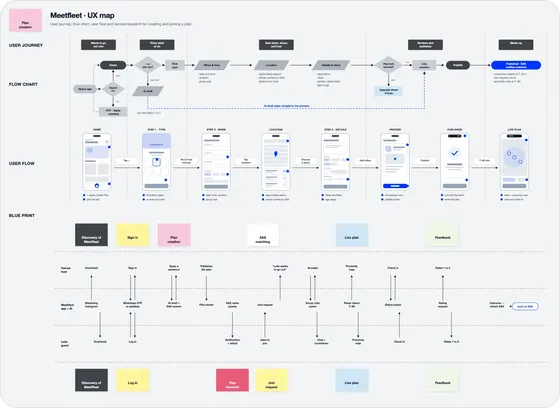
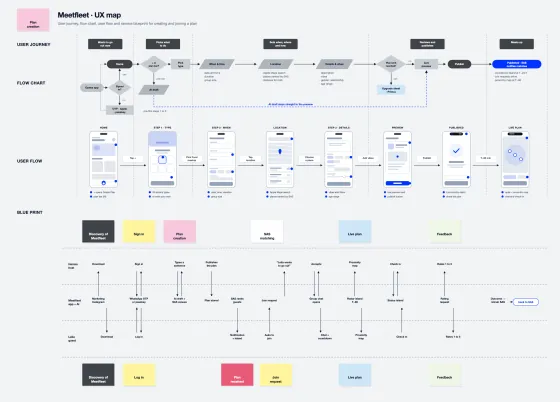
Chapter II: sharp UX map at full resolution, behind the glass lens

diff --git a/meetfleet/index.html b/meetfleet/index.html
@@ -97,7 +97,7 @@
             <a class="post__link" href="../blog/advanced.html" tabindex="-1" aria-hidden="true">
               <img class="post__img" src="../assets/work-2.webp" width="1088" height="923" loading="lazy" decoding="async" alt="People in white T-shirts looking at their phones" data-i18n-attr="alt:work.post1.alt" />
               <span class="post__panel"><svg class="post__mark" viewBox="0 0 48 48" width="28" height="28" aria-hidden="true"><path fill="currentColor" d="M45.0443 29.572C41.7112 38.1868 33.5477 44.282 23.9992 44.2821C14.451 44.2819 6.28873 38.1865 2.95563 29.572L7.73895 27.6014C10.3173 34.2658 16.6291 38.9682 23.9992 38.9684C31.3694 38.9684 37.6825 34.266 40.261 27.6014L45.0443 29.572ZM23.9992 3.71802C33.6452 3.7181 41.4659 11.557 41.4662 21.2272C41.4662 23.4749 41.0427 25.624 40.273 27.5984L35.1417 25.5887C33.398 30.0612 29.0586 33.2148 23.9992 33.2149C18.9401 33.2146 14.6019 30.061 12.8582 25.5887L7.7269 27.5984C6.95724 25.624 6.5337 23.4749 6.5337 21.2272C6.534 11.5571 14.3534 3.71836 23.9992 3.71802Z"/></svg><span class="post__index"><span data-i18n="work.chapter">Chapter</span> 02</span></span>
-            <span class="peek" aria-hidden="true"><span class="peek__toc"><span class="peek__k"><span data-i18n="mf.peek.inside">Inside</span> · 8 <span data-i18n="mf.peek.sections">sections</span></span><ol><li>Designing the journey</li><li>Home screen</li><li>Plans creation craft</li><li>Plans feed</li><li>Plan Insights</li><li>Subscriptions</li><li>The Level Regime</li><li class="peek__more">+ 1</li></ol></span><span class="peek__strip"><span class="peek__roll"><img data-src="../assets/peek/a-journey.webp" alt="" decoding="async" /><img data-src="../assets/peek/a-home.webp" alt="" decoding="async" /><img data-src="../assets/peek/a-feed.webp" alt="" decoding="async" /><img data-src="../assets/peek/a-tiers.webp" alt="" decoding="async" /><img data-src="../assets/peek/a-levels.webp" alt="" decoding="async" /><img data-src="../assets/peek/a-badges.webp" alt="" decoding="async" /><img data-src="../assets/peek/a-journey.webp" alt="" decoding="async" /><img data-src="../assets/peek/a-home.webp" alt="" decoding="async" /><img data-src="../assets/peek/a-feed.webp" alt="" decoding="async" /><img data-src="../assets/peek/a-tiers.webp" alt="" decoding="async" /><img data-src="../assets/peek/a-levels.webp" alt="" decoding="async" /><img data-src="../assets/peek/a-badges.webp" alt="" decoding="async" /></span></span></span>
+            <span class="peek" aria-hidden="true"><span class="peek__toc"><span class="peek__k"><span data-i18n="mf.peek.inside">Inside</span> · 8 <span data-i18n="mf.peek.sections">sections</span></span><ol><li>Designing the journey</li><li>Home screen</li><li>Plans creation craft</li><li>Plans feed</li><li>Plan Insights</li><li>Subscriptions</li><li>The Level Regime</li><li class="peek__more">+ 1</li></ol></span><span class="peek__strip"><span class="peek__roll"><img data-src="../assets/peek/a-journey.webp?v=2" alt="" decoding="async" /><img data-src="../assets/peek/a-home.webp" alt="" decoding="async" /><img data-src="../assets/peek/a-feed.webp" alt="" decoding="async" /><img data-src="../assets/peek/a-tiers.webp" alt="" decoding="async" /><img data-src="../assets/peek/a-levels.webp" alt="" decoding="async" /><img data-src="../assets/peek/a-badges.webp" alt="" decoding="async" /><img data-src="../assets/peek/a-journey.webp?v=2" alt="" decoding="async" /><img data-src="../assets/peek/a-home.webp" alt="" decoding="async" /><img data-src="../assets/peek/a-feed.webp" alt="" decoding="async" /><img data-src="../assets/peek/a-tiers.webp" alt="" decoding="async" /><img data-src="../assets/peek/a-levels.webp" alt="" decoding="async" /><img data-src="../assets/peek/a-badges.webp" alt="" decoding="async" /></span></span></span>
             </a>
             <div class="post__body">
               <p class="post__ch"><span data-i18n="work.chapter">Chapter</span> <b>02</b></p>

diff --git a/blog/advanced.html b/blog/advanced.html
@@ -42,7 +42,7 @@
   <link rel="icon" href="../assets/icon.svg" type="image/svg+xml" />
   <link rel="preload" href="../fonts/AllianceNo2-Regular.woff2" as="font" type="font/woff2" crossorigin />
   <link rel="preload" href="../assets/blog/advanced-hero.webp" as="image" fetchpriority="high" />
-  <link rel="stylesheet" href="blog.css?v=202610132334" />
+  <link rel="stylesheet" href="blog.css?v=20261016" />
   <!-- instant navigation: pages you are about to open are pre-rendered on hover (Chromium) -->
   <script type="speculationrules">{"prerender":[{"source":"document","where":{"and":[{"href_matches":"/*"},{"not":{"href_matches":"/assets/*"}},{"not":{"selector_matches":"[target=_blank], [href^='mailto:'], [href^='tel:']"}}]},"eagerness":"moderate"}]}</script>
 </head>
@@ -103,8 +103,8 @@
             <h2>Designing the journey: from “I’m bored” to “see you there”</h2>
             <p class="lead">Most social apps map a journey that ends on a screen. Ours ends in the real world.</p>
             <p>We traced every step from the moment someone wants to go out to the moment two people actually meet, then rebuilt each one to remove friction: one sentence instead of ten fields, a preview instead of a form, a Dynamic Island countdown instead of a reminder you forget. The blueprint follows the host, the guest and Meetfleet side by side, so every tap on one phone becomes a signal on the other: a join request, a radar ping, a check-in. It also loops back on itself, because every meetup that happens, or doesn’t, retrains the Social Activation Score. The journey doesn’t stop at the meetup. Each one makes the next plan a little better.</p>
-            <figure class="fig" data-reveal>
-              <img src="../assets/blog/a-journey.webp" width="1592" height="1160" loading="lazy" alt="Meetfleet UX map: user journey, flow chart, user flow and service blueprint for creating and joining a plan" />
+            <figure class="fig lens" data-reveal data-lens>
+              <img src="../assets/blog/a-journey-map.webp" width="3600" height="2583" loading="lazy" alt="Meetfleet UX map: user journey, flow chart, user flow and service blueprint for creating and joining a plan" />
             </figure>
           </section>
 
@@ -215,6 +215,6 @@
 
   <nav class="dock" data-dock aria-label="Chapter navigation"></nav>
 
-  <script src="blog.js?v=20261014d"></script>
+  <script src="blog.js?v=20261016"></script>
 </body>
 </html>
